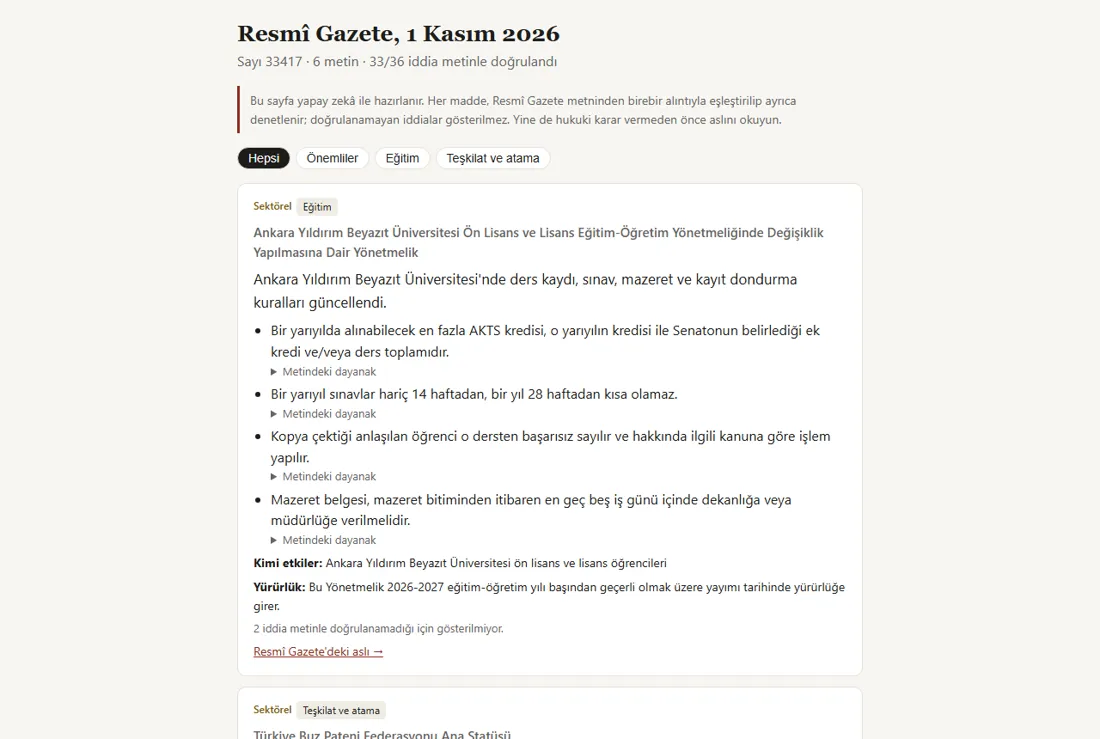
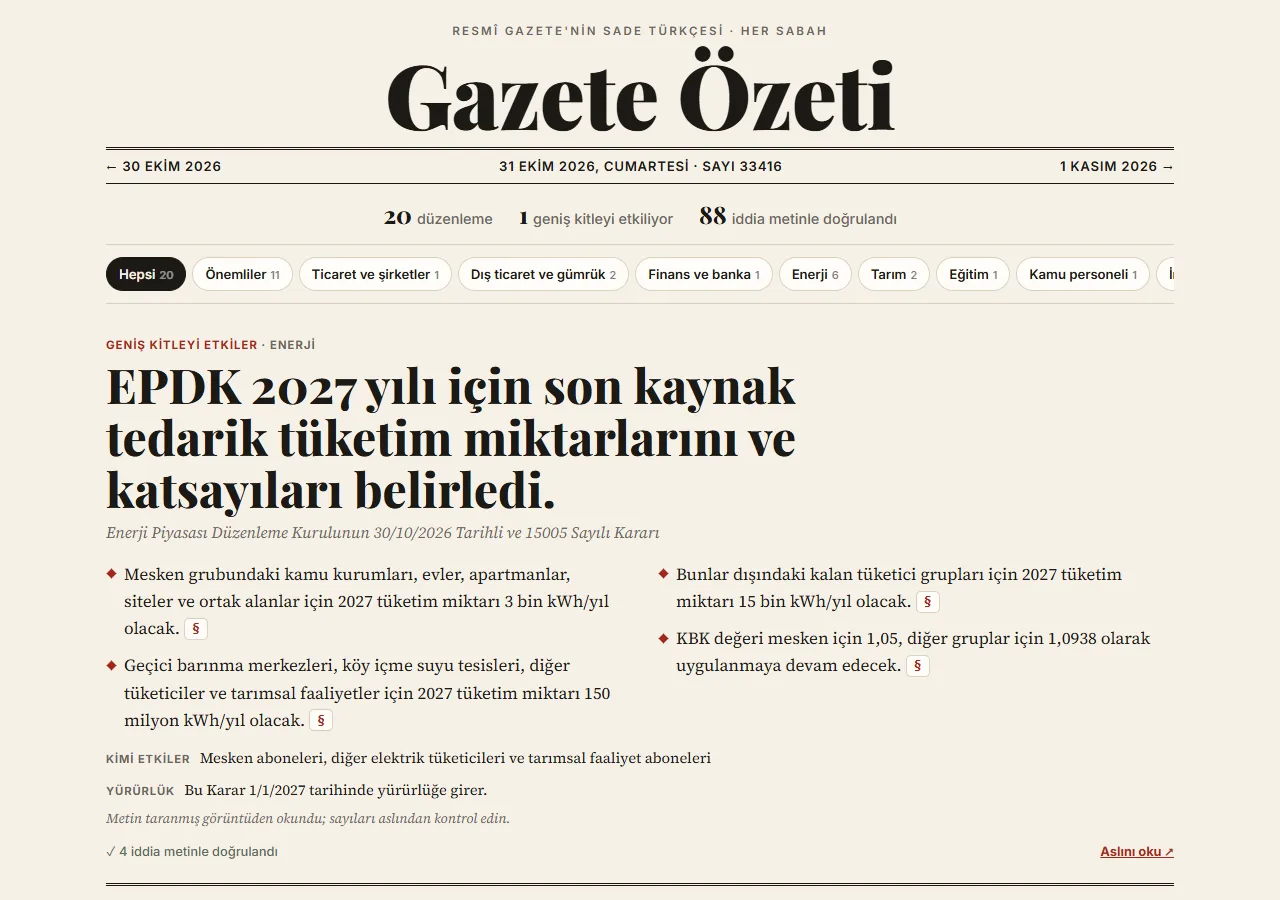
Gazete Özeti: yeni tasarımın ekran görüntüsü

Changed region(s): [[0.0618, 0.0311, 0.9273, 1.0]]

diff --git a/en.js b/en.js
@@ -49,7 +49,7 @@ const EN_PROJE = {
     sayilar: [["172 / 180", "claims verified and published"], ["25 / 25", "correct in manual check"], ["≈ $0.04", "per day"]],
     yaptim: ["It fetches the day's index and extra issues, reads scanned PDFs and summarises every regulation in plain Turkish. Every claim in a summary has to match a verbatim quote from the Gazette; claims that don't match are not published. Readers can open the \"source in the text\" under each point."],
     ogrendim: "The judge that checks the summaries is the same model that writes them, so it isn't independent. I haven't yet measured completeness (missed items); the next step is a week with real readers.",
-    gorseller: [["gorsel/p-gazete.webp", "The 1 November 2026 issue: 33 of 36 claims verified against the text (real output)"]],
+    gorseller: [["gorsel/p-gazete.webp", "The 31 October 2026 issue: 20 regulations, 88 claims verified against the text (real output)"]],
     link: [["Today's digest ↗", "https://birtohum.github.io/gazete-ozeti/"], ["Code ↗", "https://github.com/birtohum/gazete-ozeti"]], alt_sahne: "Gazette Digest page"},
   "Yorum Yanıtlayıcı": {ad: "Review Replier", ne: "Drafts replies to customer reviews for small shops, based only on what the business itself provided.",
     sonuc: "15 of 15 unseen hair-salon reviews accepted on manual review. Invented promises, numbers or phone numbers are caught in code.",

diff --git a/veri.js b/veri.js
@@ -97,7 +97,7 @@ const HIKAYE = {
     sayilar: [["172 / 180", "iddia doğrulanıp yayımlandı"], ["25 / 25", "elle denetimde doğru"], ["≈ 0,04 $", "günlük maliyet"]],
     yaptim: ["Günün fihristini ve mükerrer sayıları çekiyor, taranmış PDF'leri okuyor, her düzenlemeyi sade Türkçeyle özetliyor. Özetteki her iddia gazetedeki birebir bir alıntıyla eşleşmek zorunda; eşleşmeyen iddia yayımlanmıyor. Okuyan her maddenin altında \"metindeki dayanak\"ı açıp görebiliyor."],
     ogrendim: "Denetleyen hakem özetleyenle aynı model, yani bağımsız değil. Atlanan madde olup olmadığını (eksiksizliği) henüz ölçmedim; sıradaki iş gerçek okurlarla bir hafta denemek.",
-    gorseller: [[G + "p-gazete.webp", "1 Kasım 2026 sayısı: 36 iddianın 33'ü metinle doğrulandı (gerçek çıktı)"]],
+    gorseller: [[G + "p-gazete.webp", "31 Ekim 2026 sayısı: 20 düzenleme, 88 iddia metinle doğrulandı (gerçek çıktı)"]],
     link: [["Bugünün özeti ↗", "https://birtohum.github.io/gazete-ozeti/"], ["Kod ↗", "https://github.com/birtohum/gazete-ozeti"]]},
   "Yorum Yanıtlayıcı": {id: "yorum", sahne: {img: G + "p-yorum.webp", alt: "Yorum Yanıtlayıcı arayüzü"},
     soru: "Esnaf her müşteri yorumuna cevap yazmak istiyor ama vakti yok. Yapay zekâ söz vermeden, uydurmadan cevap yazabilir mi?",

diff --git a/index.html b/index.html
@@ -698,8 +698,8 @@ const sayacOlay = (yol, baslik) => { try { window.goatcounter?.count?.({path: yo
   </footer>
 </div>
 
-<script src="veri.js?v=18"></script>
-<script src="en.js?v=20"></script>
+<script src="veri.js?v=19"></script>
+<script src="en.js?v=21"></script>
 <script>
 "use strict";
 const HEPSI = PROJELER;
